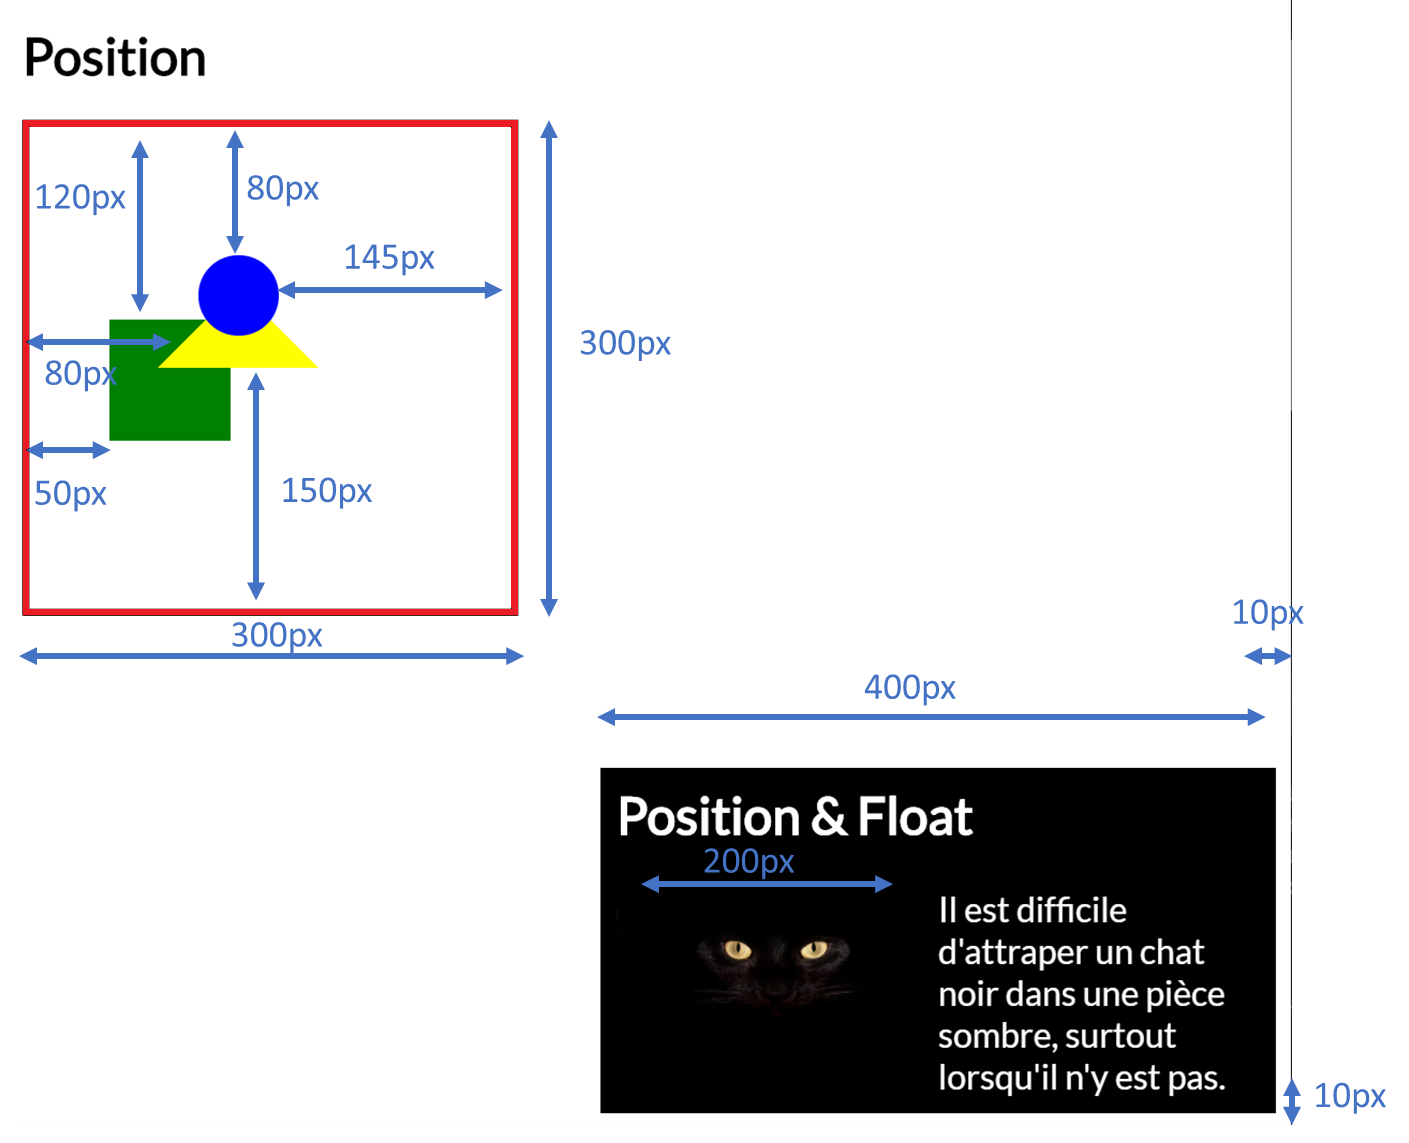
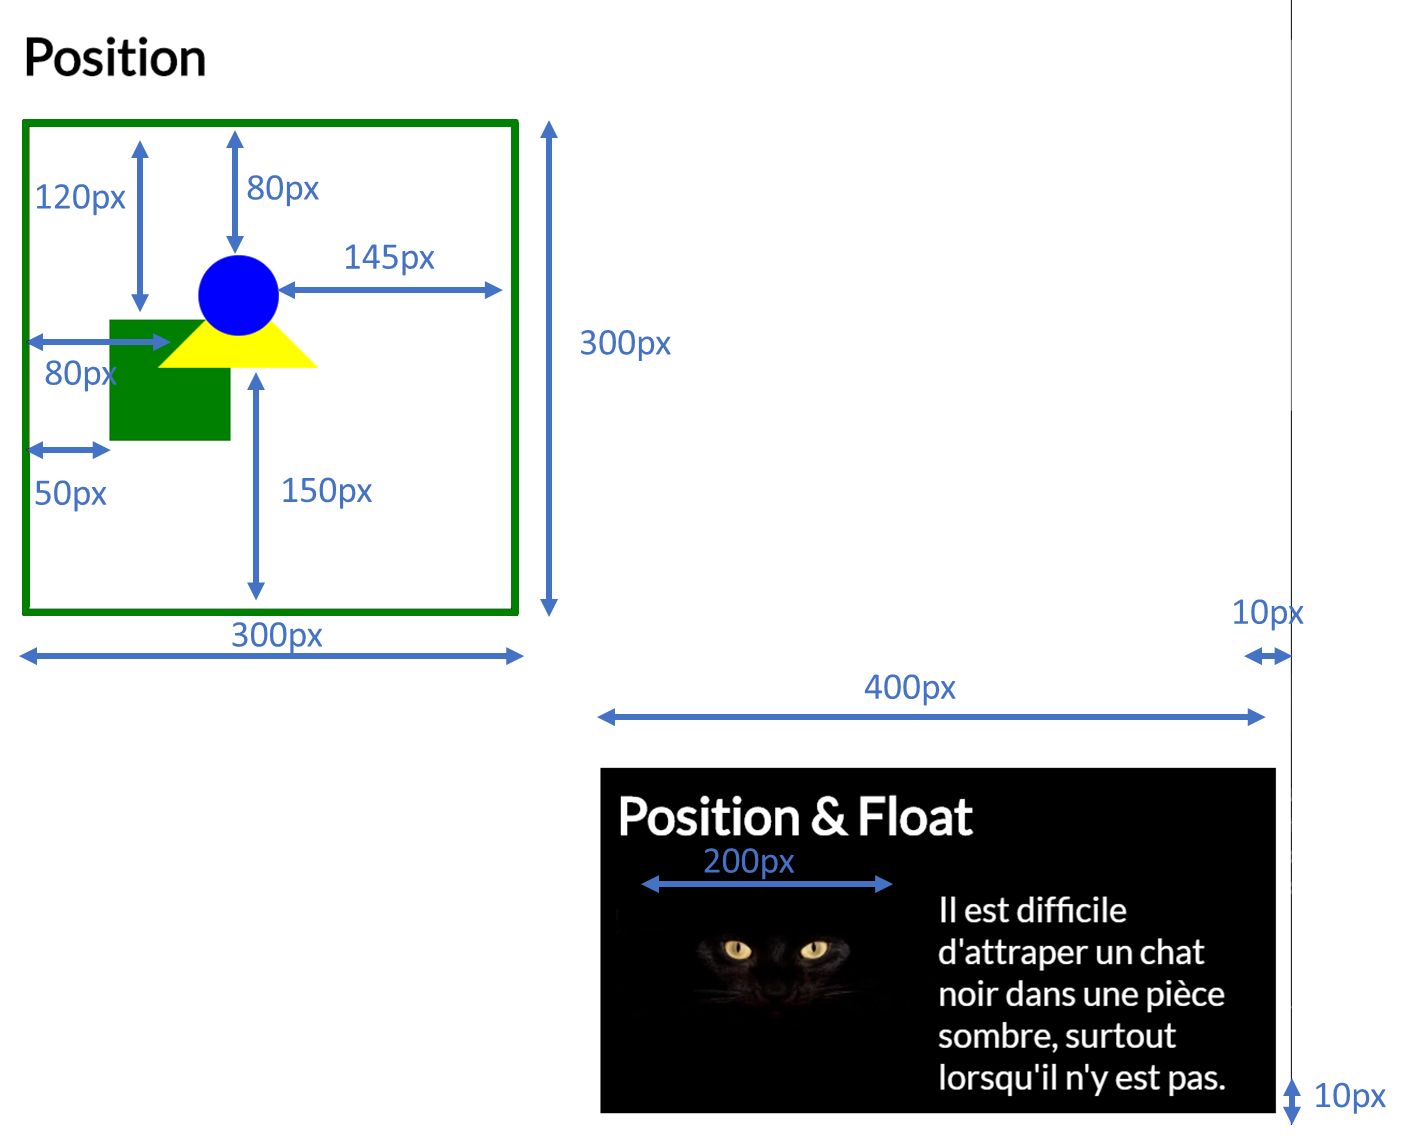
css position green

Changed region(s): [[0.0, 0.0919, 0.3747, 0.5512]]

diff --git a/CSS_Position/style.css b/CSS_Position/style.css
@@ -23,7 +23,7 @@ img {
 }
 
 .wrapper {
-  border: 4px solid red;
+  border: 4px solid green;
 
 
 
